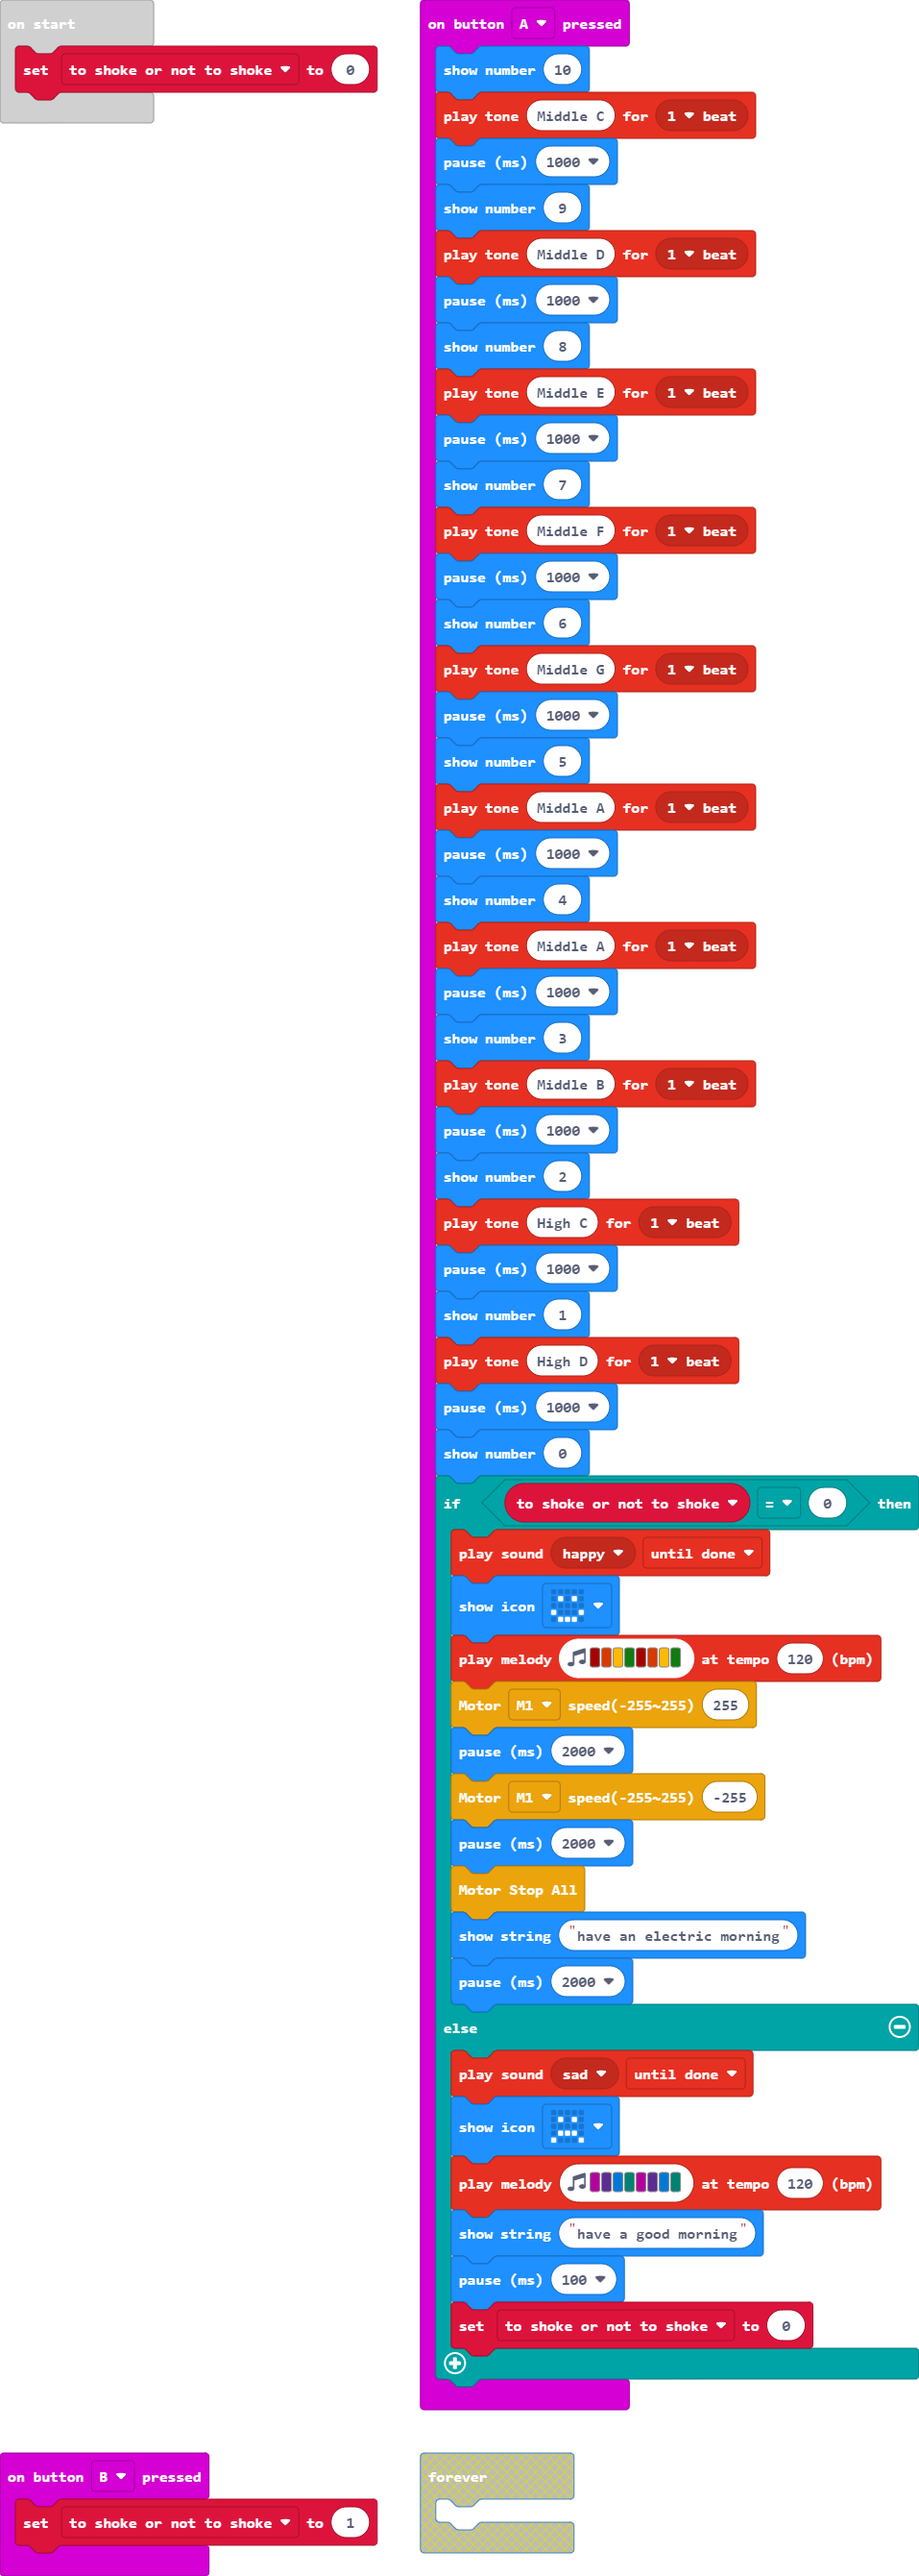
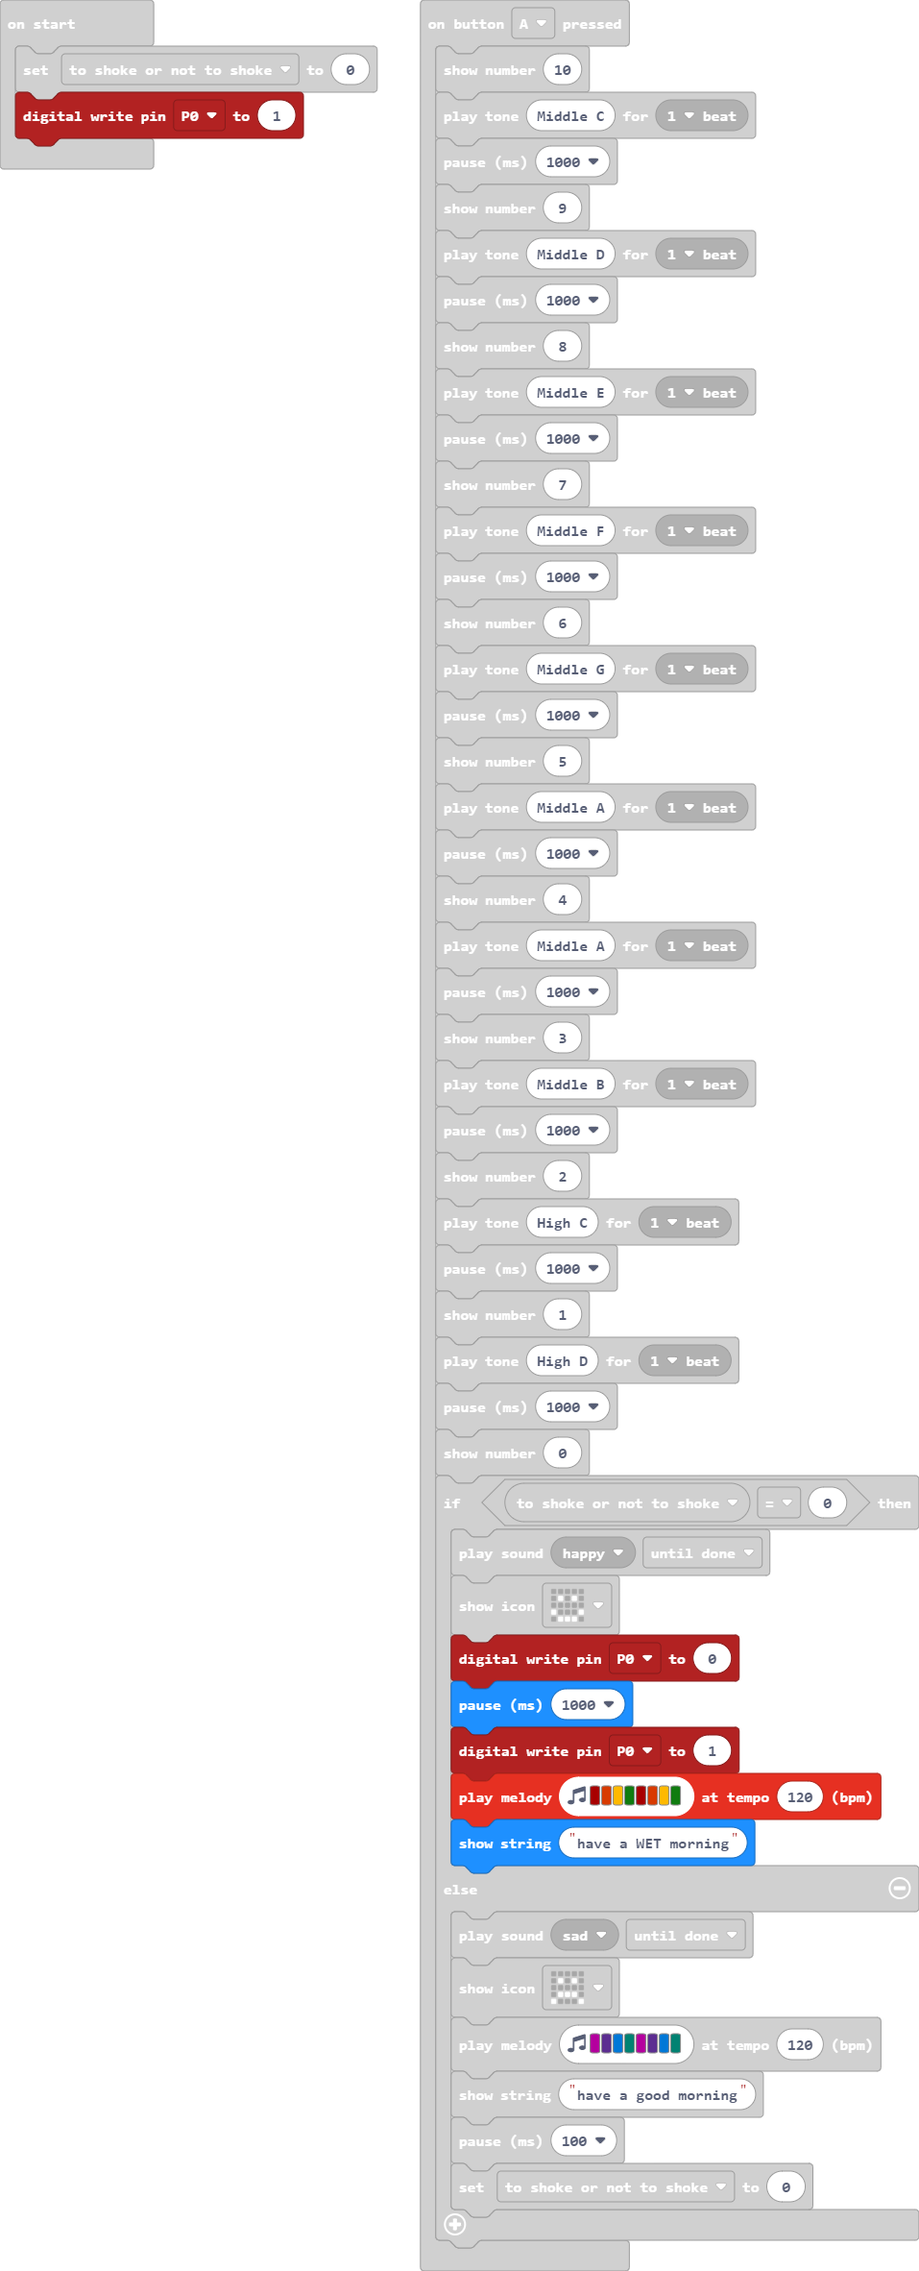
Update main.blocks, main.ts

diff --git a/main.ts b/main.ts
@@ -33,14 +33,11 @@ input.onButtonPressed(Button.A, function () {
     if (to_shoke_or_not_to_shoke == 0) {
         music.playSoundEffect(music.builtinSoundEffect(soundExpression.happy), SoundExpressionPlayMode.UntilDone)
         basic.showIcon(IconNames.Happy)
+        pins.digitalWritePin(DigitalPin.P0, 0)
+        basic.pause(1000)
+        pins.digitalWritePin(DigitalPin.P0, 1)
         music.playMelody("C5 B A G C5 B A G ", 120)
-        SuperBit.MotorRun(SuperBit.enMotors.M1, 255)
-        basic.pause(2000)
-        SuperBit.MotorRun(SuperBit.enMotors.M1, -255)
-        basic.pause(2000)
-        SuperBit.MotorStopAll()
-        basic.showString("have an electric morning")
-        basic.pause(2000)
+        basic.showString("have a WET morning")
     } else {
         music.playSoundEffect(music.builtinSoundEffect(soundExpression.sad), SoundExpressionPlayMode.UntilDone)
         basic.showIcon(IconNames.Sad)
@@ -55,3 +52,4 @@ input.onButtonPressed(Button.B, function () {
 })
 let to_shoke_or_not_to_shoke = 0
 to_shoke_or_not_to_shoke = 0
+pins.digitalWritePin(DigitalPin.P0, 1)
